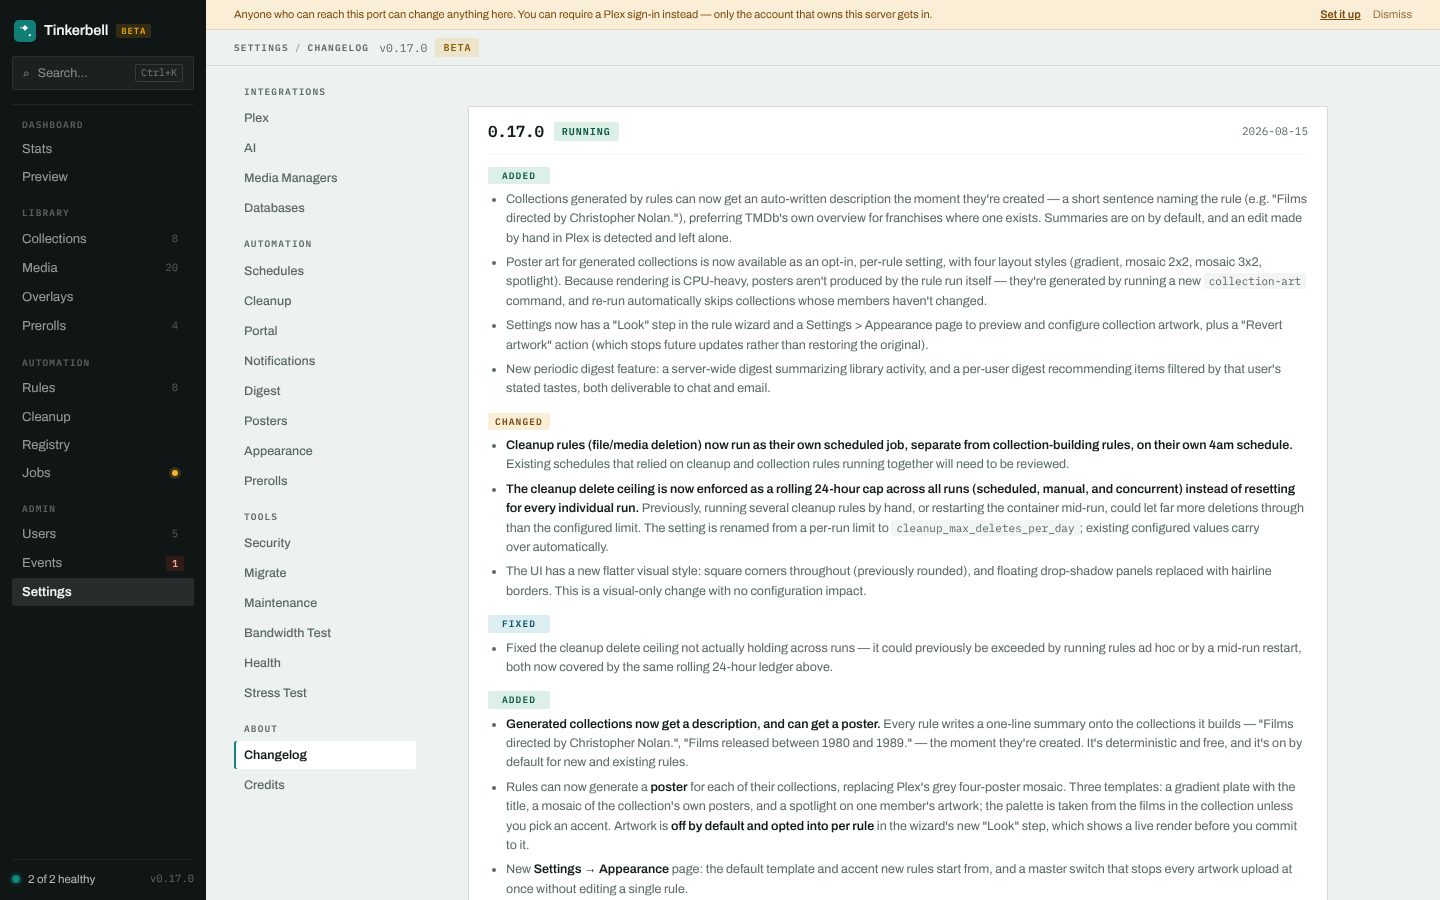
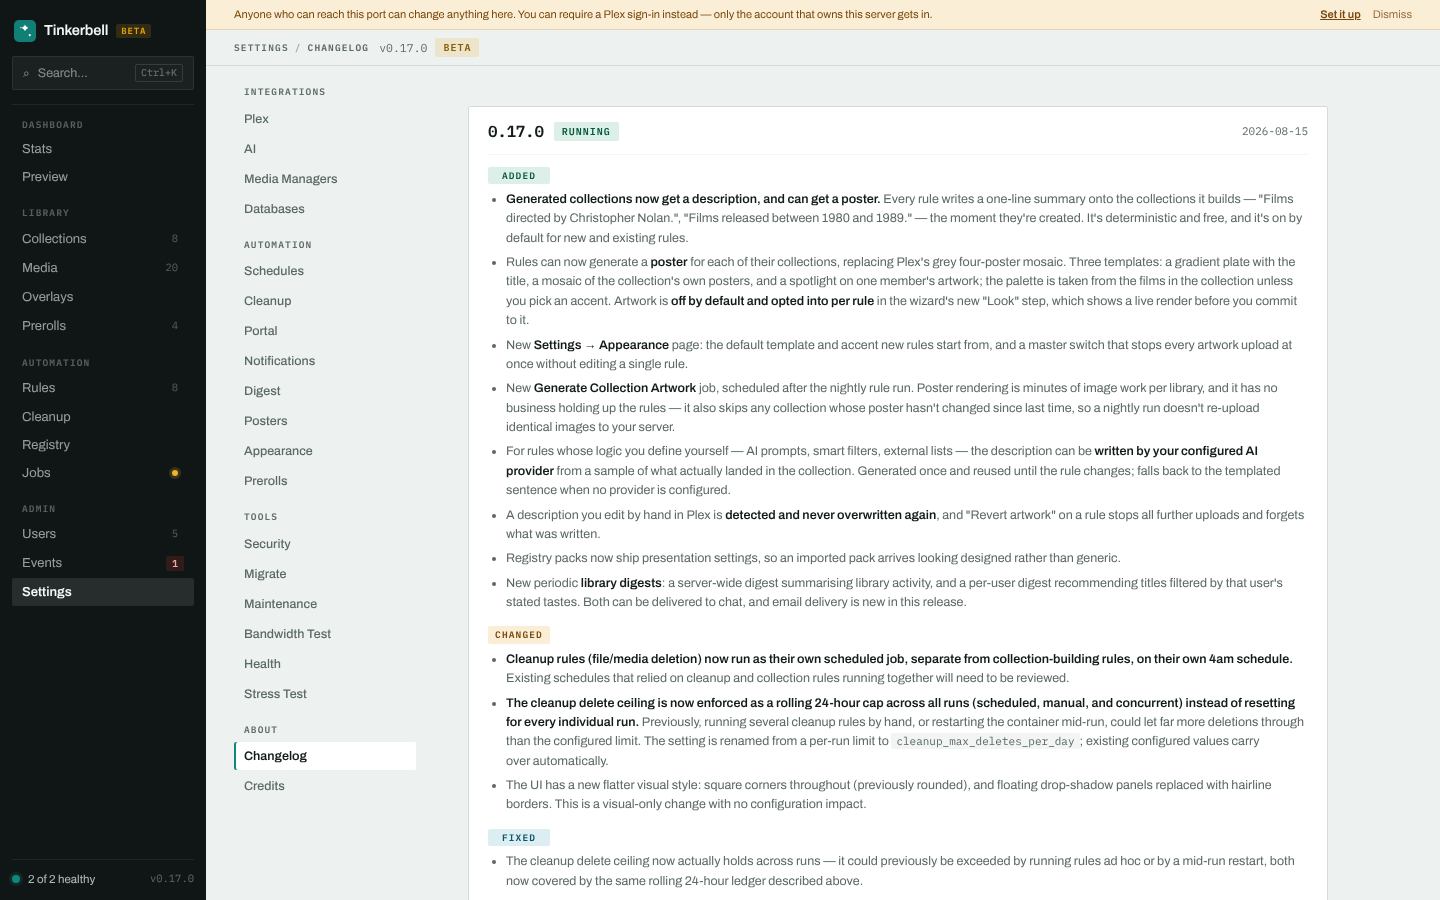
fix(harness): stop the screenshot capture flaking under load
Three rule-wizard shots failed mid-release with "No button or labelled
control named Add Rule appeared", and passed on a rerun. The button was
never missing: the pool runs a dozen pages at a time against one server
and one SQLite file, and under that load the page was still showing its
loading skeleton when the step's 10s budget ran out.

Step timeouts are deadlock guards, not performance assertions — a wait
costs only as long as the element takes to appear — so they now share one
generous STEP_TIMEOUT (45s), which is free on a healthy run. The keystroke
probe goes to 10s for a different reason: those keys open things, and a
press that landed but rendered slowly was being pressed again and toggled
straight back shut.

Anything that still fails is retried once, serially, after the pool has
drained. A shot starved of CPU by the other eleven isn't reproduced by
retrying it while they're still running.

Failures now say what the page was showing — an error block (with its
text), a loading skeleton, and any failed requests — instead of only
naming the control that never appeared. The first cut of that probe
matched ToastProvider's always-mounted empty role="alert" region and
reported an error on every healthy page, hence the non-empty check.

Verified: concurrency 28 went from 8 failures to none, and 40 from 44
failures to one that the retry recovered. Two changelog screenshots are
included because CHANGELOG.md was edited by hand after v0.17.0 captured.

diff --git a/apps/tinkerbell.dev/harness/capture.ts b/apps/tinkerbell.dev/harness/capture.ts
@@ -215,6 +215,29 @@ async function newContext(browser: Browser, viewport: Viewport, scale: number): 
  */
 const QUIET_MS = 150;
 
+/**
+ * How long any single step waits for the thing it needs.
+ *
+ * Deliberately far longer than a healthy page takes, because these are deadlock
+ * guards and not performance assertions: a wait costs only as long as the
+ * element takes to appear, so a generous ceiling is free on a good run and the
+ * difference between a flaky suite and a stable one on a loaded machine.
+ *
+ * It used to be 10s, which is a fine budget for one page and not for ~100 of
+ * them sharing a server: the pool runs a dozen at a time against a single
+ * process and one SQLite file, so under load a page can still be showing its
+ * loading skeleton at 10s with nothing whatsoever wrong with it. That is the
+ * flake that failed three rule-wizard shots mid-release and passed on a rerun.
+ */
+const STEP_TIMEOUT = 45_000;
+
+/**
+ * Requests that failed outright or came back non-2xx, per page. A shot that
+ * fails because a query errored should say which request errored — the app
+ * renders the same "couldn't load" block whatever the cause.
+ */
+const failedRequests = new WeakMap<Page, string[]>();
+
 function watchNetwork(page: Page): (quietMs?: number) => Promise<void> {
   let inflight = 0;
   let lastChange = Date.now();
@@ -222,11 +245,22 @@ function watchNetwork(page: Page): (quietMs?: number) => Promise<void> {
     inflight += delta;
     lastChange = Date.now();
   };
+  const failures: string[] = [];
+  failedRequests.set(page, failures);
+  const note = (entry: string) => {
+    if (failures.length < 20) failures.push(entry);
+  };
   page.on("request", () => bump(1));
   page.on("requestfinished", () => bump(-1));
-  page.on("requestfailed", () => bump(-1));
+  page.on("requestfailed", (req) => {
+    bump(-1);
+    note(`${new URL(req.url()).pathname} (${req.failure()?.errorText ?? "failed"})`);
+  });
+  page.on("response", (res) => {
+    if (res.status() >= 400) note(`${new URL(res.url()).pathname} → ${res.status()}`);
+  });
 
-  return async function quiet(quietMs = QUIET_MS, timeoutMs = 30_000) {
+  return async function quiet(quietMs = QUIET_MS, timeoutMs = STEP_TIMEOUT) {
     const deadline = Date.now() + timeoutMs;
     for (;;) {
       if (inflight <= 0 && Date.now() - lastChange >= quietMs) return;
@@ -238,12 +272,40 @@ function watchNetwork(page: Page): (quietMs?: number) => Promise<void> {
 
 // ─── Per-shot driving ────────────────────────────────────────────────────────
 
+/**
+ * What the page was showing when a step gave up, as a clause to append to the
+ * error. Best-effort: a diagnostic that throws would replace the real failure
+ * with its own.
+ */
+async function why(page: Page): Promise<string> {
+  try {
+    const state = await page.evaluate(() => {
+      // Non-empty only: <ToastProvider> keeps an empty sr-only role="alert"
+      // live region mounted at all times, so "an alert exists" is true on every
+      // healthy page and means nothing on its own.
+      const alert = Array.from(document.querySelectorAll("[role='alert']"))
+        .map((el) => (el.textContent ?? "").trim())
+        .find((text) => text.length > 0);
+      if (alert) return `the page is showing an error: "${alert.slice(0, 200)}"`;
+      if (document.querySelector("[class*='skeleton' i]")) return "the page is still showing a loading skeleton";
+      return null;
+    });
+    const failed = failedRequests.get(page);
+    const clauses = [state, failed?.length ? `failed requests: ${failed.slice(0, 3).join(", ")}` : null].filter(
+      Boolean,
+    );
+    return clauses.length > 0 ? ` — ${clauses.join("; ")}` : "";
+  } catch {
+    return "";
+  }
+}
+
 async function applySteps(page: Page, steps: Step[]) {
   // Steps drive a live app, so wait for React to have mounted and painted
   // before touching it. Locators auto-wait, but a keystroke doesn't: the
   // shortcut handlers are bound in effects, and a key pressed before they exist
   // is dropped with nothing to retry against.
-  await page.waitForSelector("#root > *", { state: "attached", timeout: 15_000 });
+  await page.waitForSelector("#root > *", { state: "attached", timeout: STEP_TIMEOUT });
   await page.evaluate(() => new Promise((r) => requestAnimationFrame(() => requestAnimationFrame(r))));
 
   for (const [index, step] of steps.entries()) {
@@ -255,34 +317,57 @@ async function applySteps(page: Page, steps: Step[]) {
       const button = page.getByRole("button", { name: step.click, exact: false }).first();
       const labelled = page.getByLabel(step.click, { exact: false }).first();
       const target = await Promise.any([
-        button.waitFor({ state: "visible", timeout: 10_000 }).then(() => button),
-        labelled.waitFor({ state: "visible", timeout: 10_000 }).then(() => labelled),
-      ]).catch(() => {
-        throw new Error(`No button or labelled control named "${step.click}" appeared`);
+        button.waitFor({ state: "visible", timeout: STEP_TIMEOUT }).then(() => button),
+        labelled.waitFor({ state: "visible", timeout: STEP_TIMEOUT }).then(() => labelled),
+      ]).catch(async () => {
+        // "It never appeared" is the symptom, not the cause. A page whose query
+        // failed renders <ErrorState role="alert"> where the control should be
+        // and stays there, and one still loading renders a skeleton — both
+        // report identically without this, which cost an afternoon.
+        throw new Error(`No button or labelled control named "${step.click}" appeared${await why(page)}`);
       });
-      await target.click({ timeout: 10_000 });
+      await target.click({ timeout: STEP_TIMEOUT });
     } else if ("clickSelector" in step) {
-      await page.locator(step.clickSelector).first().click({ timeout: 10_000 });
+      await page
+        .locator(step.clickSelector)
+        .first()
+        .click({ timeout: STEP_TIMEOUT })
+        .catch(async (err: Error) => {
+          throw new Error(`Clicking "${step.clickSelector}" failed: ${err.message.split("\n")[0]}${await why(page)}`);
+        });
     } else if ("clickText" in step) {
-      await page.getByText(step.clickText, { exact: false }).first().click({ timeout: 10_000 });
+      await page
+        .getByText(step.clickText, { exact: false })
+        .first()
+        .click({ timeout: STEP_TIMEOUT })
+        .catch(async (err: Error) => {
+          throw new Error(`Clicking text "${step.clickText}" failed: ${err.message.split("\n")[0]}${await why(page)}`);
+        });
     } else if ("press" in step) {
       // A dropped keystroke leaves no trace, so when the shot says what the key
       // should produce, press again until it does — checking first, so a press
       // that did land isn't toggled straight back off. If it never appears the
       // following `wait` step reports it.
+      //
+      // The probe is generous for the same reason it exists: these keys open
+      // things (the command palette, the shortcuts sheet), so a press that
+      // landed but rendered slowly is worse than a slow probe — pressing again
+      // would toggle it straight back shut and capture the page behind it.
       const next = steps[index + 1];
       const expected = next && "wait" in next ? next.wait : undefined;
       for (let attempt = 0; attempt < 3; attempt++) {
         await page.keyboard.press(step.press);
         if (!expected) break;
         const landed = await page
-          .waitForSelector(expected, { state: "visible", timeout: 3_000 })
+          .waitForSelector(expected, { state: "visible", timeout: 10_000 })
           .then(() => true)
           .catch(() => false);
         if (landed) break;
       }
     } else if ("wait" in step) {
-      await page.waitForSelector(step.wait, { state: "visible", timeout: 10_000 });
+      await page.waitForSelector(step.wait, { state: "visible", timeout: STEP_TIMEOUT }).catch(async () => {
+        throw new Error(`Waiting for "${step.wait}" timed out${await why(page)}`);
+      });
     } else if ("fill" in step) {
       await page.getByPlaceholder(step.fill, { exact: false }).first().fill(step.text);
       // Let the debounce land, or the shot catches the pre-filter list.
@@ -304,7 +389,7 @@ async function settle(page: Page, shot: Shot, quiet: (quietMs?: number) => Promi
   await quiet();
 
   if (shot.waitFor) {
-    await page.waitForSelector(shot.waitFor, { state: "visible", timeout: 15_000 });
+    await page.waitForSelector(shot.waitFor, { state: "visible", timeout: STEP_TIMEOUT });
   }
 
   /**
@@ -330,7 +415,7 @@ async function settle(page: Page, shot: Shot, quiet: (quietMs?: number) => Promi
       return document.images.length;
     });
     await page.waitForFunction(() => Array.from(document.images).every((img) => img.complete), null, {
-      timeout: 20_000,
+      timeout: STEP_TIMEOUT,
     });
     if (count === seen) break;
     seen = count;
@@ -343,7 +428,7 @@ async function settle(page: Page, shot: Shot, quiet: (quietMs?: number) => Promi
 
   if (!shot.allowSpinner) {
     await page
-      .waitForFunction(() => !document.querySelector("[data-motion='essential']"), null, { timeout: 10_000 })
+      .waitForFunction(() => !document.querySelector("[data-motion='essential']"), null, { timeout: STEP_TIMEOUT })
       .catch(() => {
         // A spinner that never resolves is worth seeing in the screenshot, but
         // not worth failing the run over — `allowSpinner` documents the ones we
@@ -560,7 +645,9 @@ async function main() {
     tasks.push({ shot, group: "site", label: shot.site!, path: join(siteDir, `${shot.site}.png`) });
   }
 
-  const results = Array.from<{ changed: boolean } | { error: string } | undefined>({ length: tasks.length });
+  const results = Array.from<{ changed: boolean; retried?: boolean } | { error: string } | undefined>({
+    length: tasks.length,
+  });
 
   step(`capturing ${tasks.length} shots, ${CONCURRENCY} at a time`);
   console.log();
@@ -575,6 +662,32 @@ async function main() {
       results[i] = { error: (err as Error).message.split("\n")[0] };
     }
   });
+
+  /**
+   * Anything that failed gets one more go, alone.
+   *
+   * The generous step timeouts are what stop a loaded machine failing a shot;
+   * this is the backstop for the rest, and it is deliberately sequential and
+   * deliberately after the pool has drained. A shot starved of CPU by the other
+   * eleven is not reproduced by retrying it while they are still running — it
+   * is reproduced by retrying it on a quiet machine, which is exactly what this
+   * is. A shot that is genuinely broken fails here too, so nothing is masked
+   * beyond the time it costs to prove it.
+   */
+  const retryable = tasks.map((_, i) => i).filter((i) => results[i] && "error" in results[i]!);
+  if (retryable.length > 0) {
+    console.log(`\n  retrying ${retryable.length} failed shot(s) serially…`);
+    for (const i of retryable) {
+      const task = tasks[i]!;
+      try {
+        const bytes = await capture(await contextFor(task.group, 0), task.shot, base);
+        results[i] = { changed: await writeIfChanged(task.path, bytes), retried: true };
+      } catch (err) {
+        results[i] = { error: (err as Error).message.split("\n")[0] };
+      }
+    }
+    console.log();
+  }
 
   // Reported in task order rather than completion order, so the log reads the
   // same on every run however the pool happened to interleave.
@@ -606,7 +719,9 @@ async function main() {
         path: task.shot.path,
       });
     }
-    console.log(`  • ${task.label} … ${result.changed ? "updated" : "unchanged"}`);
+    console.log(
+      `  • ${task.label} … ${result.changed ? "updated" : "unchanged"}${result.retried ? " (on retry)" : ""}`,
+    );
   }
   console.log(`\n(captured in ${((Date.now() - captureStart) / 1000).toFixed(1)}s)`);
 
